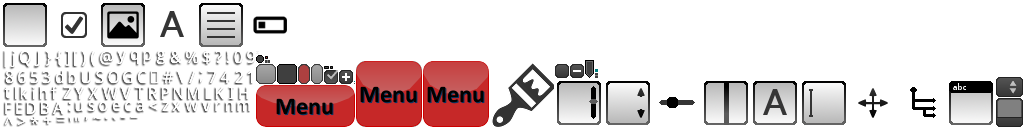
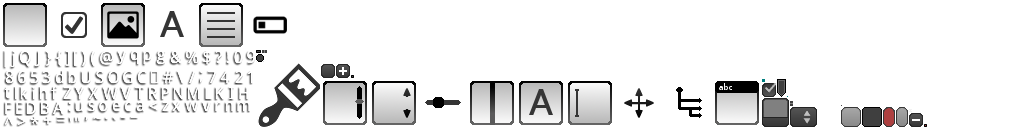
Circle instead of squares.

Changed region(s): [[0.25, 0.375, 1.0, 1.0]]

diff --git a/core/src/com/keeneye/cubetest/Stages/GridStage.java b/core/src/com/keeneye/cubetest/Stages/GridStage.java
@@ -40,6 +40,8 @@ public class GridStage extends Stage {
 
     private Preferences preferences;
 
+    private boolean newScreen;
+
 
     public GridStage(int width,int height,CubeTest game)
     {
@@ -70,11 +72,14 @@ public class GridStage extends Stage {
         second_tracker=0;
         game_time=60;
 
+        newScreen =false;
+
         batch = getBatch();
         batch.setProjectionMatrix(getCamera().combined);
 
         score=0;
-        scoreFont=new BitmapFont(Gdx.files.internal("default.fnt"));
+        scoreFont=new BitmapFont(Gdx.files.internal("skin/default.fnt"));
+        scoreFont.setColor(0,0,0,1);
 
         Color color = randomUtils.getRandomColor();
         for(int i=0;i<2;i++)
@@ -118,68 +123,66 @@ public class GridStage extends Stage {
         spawn_time+=delta;
         background_change_time+=delta;
         second_tracker+=delta;
-        Gdx.app.log("GridStage","Act");
-        if(game_time<=0)
-        {
+        //Gdx.app.log("GridStage","Act");
+        if(!newScreen) {
+            if (game_time <= 0) {
 
-            int highscore = preferences.getInteger("highscore");
+                int highscore = preferences.getInteger("highscore");
 
-            if(score>highscore)
-            {
-                preferences.putInteger("highscore",score);
-                preferences.flush();
-            }
-            game.setScreen(new OverScreen(game,this,score));
+                if (score > highscore) {
+                    preferences.putInteger("highscore", score);
+                    preferences.flush();
+                }
+                //this.dispose();
+                newScreen = true;
+                game.setScreen(new OverScreen(game, this, score));
 
-
-        }
-
-        if(second_tracker>=1) {
-            game_time--;
-
-            second_tracker = 0;
-        }
-
-
-        if(spawn_time>0.5) {
-            spawn_time=0;
-            int x = randomUtils.getRandomInt(4);
-            int y = randomUtils.getRandomInt(4);
-            if (!grids[x][y].isDraw()) {
-                grids[x][y].setColor(randomUtils.getRandomColor());
-                grids[x][y].setDraw(true);
-
-                if(randomUtils.getRandomBoolean(4))
-                    grids[x][y].setDraw_clock(true);
 
             }
         }
 
-        if(background_change_time>10)
-        {
-            background_change_time=0;
-            int x = randomUtils.getRandomInt(2);
-            int y= randomUtils.getRandomInt(2);
-            Color color = randomUtils.getRandomColor();
-            back_grids[x][y].setColor(color);
-            helperUtils.set_grid_back_color(grids,x,y,color);
 
-            int rnd= randomUtils.getRandomInt(2);
+            if (second_tracker >= 1) {
+                game_time--;
 
-            if(rnd==0)
-            {
-                back_grids[(x+1)%2][y].setColor(color);
-                helperUtils.set_grid_back_color(grids,(x+1)%2,y,color);
-            }
-            else
-            {
-                back_grids[x][(y+1)%2].setColor(color);
-                helperUtils.set_grid_back_color(grids,x,(x+1)%2,color);
+                second_tracker = 0;
             }
 
 
+            if (spawn_time > 0.4) {
+                spawn_time = 0;
+                int x = randomUtils.getRandomInt(4);
+                int y = randomUtils.getRandomInt(4);
+                if (!grids[x][y].isDraw()) {
+                    grids[x][y].setColor(randomUtils.getRandomColor());
+                    grids[x][y].setDraw(true);
 
-        }
+                    if (randomUtils.getRandomBoolean(4))
+                        grids[x][y].setDraw_clock(true);
+
+                }
+            }
+
+            if (background_change_time > 10) {
+                background_change_time = 0;
+                int x = randomUtils.getRandomInt(2);
+                int y = randomUtils.getRandomInt(2);
+                Color color = randomUtils.getRandomColor();
+                back_grids[x][y].setColor(color);
+                helperUtils.set_grid_back_color(grids, x, y, color);
+
+                int rnd = randomUtils.getRandomInt(2);
+
+                if (rnd == 0) {
+                    back_grids[(x + 1) % 2][y].setColor(color);
+                    helperUtils.set_grid_back_color(grids, (x + 1) % 2, y, color);
+                } else {
+                    back_grids[x][(y + 1) % 2].setColor(color);
+                    helperUtils.set_grid_back_color(grids, x, (x + 1) % 2, color);
+                }
+
+
+            }
 
 
     }
@@ -222,4 +225,11 @@ public class GridStage extends Stage {
         return game_time;
     }
 
+    @Override
+    public void dispose() {
+        super.dispose();
+        renderer.dispose();
+        scoreFont.dispose();
+        batch.dispose();
+    }
 }

diff --git a/core/src/com/keeneye/cubetest/Actors/Grid.java b/core/src/com/keeneye/cubetest/Actors/Grid.java
@@ -20,6 +20,7 @@ public class Grid extends GameActor {
     protected Color back_color;
     protected Rectangle bound;
     protected Circle clock;
+    protected Circle circle;
     protected boolean draw_clock;
     private GridStage gridStage;
 
@@ -31,6 +32,7 @@ public class Grid extends GameActor {
         this.back_color=null;
         bound=new Rectangle(x,y,width,height);
         clock=new Circle(x+(width/2),y+(height/2),10);
+        circle = new Circle(x+(width/2),y+(height/2),20);
         this.setBounds(x,y,width,height);
         this.gridStage=gridStage;
 
@@ -50,12 +52,12 @@ public class Grid extends GameActor {
         renderer.set(ShapeRenderer.ShapeType.Filled);
         renderer.rect(x, y, width, height);
 
-        renderer.setColor(Color.BLACK);
+        /*renderer.setColor(Color.BLACK);
         renderer.set(ShapeRenderer.ShapeType.Line);
         renderer.rect(x, y, width, height);
+
+        */
         renderer.end();
-
-
 
         if(draw) {
 
@@ -64,12 +66,12 @@ public class Grid extends GameActor {
             renderer.set(ShapeRenderer.ShapeType.Filled);
             renderer.setColor(color);
 
-            renderer.rect(x, y, width, height);
+            renderer.circle(circle.x, circle.y,circle.radius);
 
             if(draw_clock) {
                 renderer.set(ShapeRenderer.ShapeType.Line);
                 renderer.setColor(Color.WHITE);
-                renderer.circle(clock.x, clock.y, clock.radius);
+                renderer.circle(clock.x, clock.y, clock.radius,60);
             }
 
             renderer.end();
@@ -121,7 +123,7 @@ public class Grid extends GameActor {
                         // Gdx.app.log("Grid","Got a Cube");
 
                         if(draw_clock==true)
-                            gridStage.setGame_time(gridStage.getGame_time()+8);
+                            gridStage.setGame_time(gridStage.getGame_time()+4);
 
                         int score=(int)(2-time)*10;
                         draw = false;

diff --git a/core/src/com/keeneye/cubetest/Screens/OverScreen.java b/core/src/com/keeneye/cubetest/Screens/OverScreen.java
@@ -73,28 +73,17 @@ public class OverScreen implements Screen{
         highScore = new Label("High Score: " +Integer.toString(preferences.getInteger("highscore")),_skin );
         highScore.setFontScale(1f);
         resume = new TextButton("RETRY", _skin);
-
-
-        options = new TextButton("OPTIONS", _skin);
-
         back = new TextButton("HOME",_skin);
 
         table.add(title).center().pad(2f);
         table.row().height(75);
         table.add(highScore).center().pad(5f);
         table.row().height(75);
-        table.add(resume).center().width(300).pad(5f);
-        table.row().height(75);
-        table.add(back).center().width(300).pad(5f);
-        table.row().height(75);
-        table.add(options).center().width(300).pad(5f);
-
-
+        table.add(resume).center().width(100).pad(5f);
+        table.row().height(50);
+        table.add(back).center().width(100).pad(5f);
 
         table.setVisible(true);
-
-
-
 
         stage.addActor(table);
         Gdx.input.setInputProcessor(stage);
@@ -125,12 +114,14 @@ public class OverScreen implements Screen{
         stage.act(delta);
         stage.draw();
 
-       /* if(resume.isChecked())
+        if(resume.isChecked())
         {
+            Gdx.app.log("Over","Change of Screen");
             this.dispose();
-            game.setScreen(new GameScreen(game));
+            game.setScreen(new GridScreen(game));
+
         }
-*/
+
 
        /* else if(back.isChecked())
         {

diff --git a/core/src/com/keeneye/cubetest/CubeTest.java b/core/src/com/keeneye/cubetest/CubeTest.java
@@ -1,23 +1,46 @@
 package com.keeneye.cubetest;
 
 import com.badlogic.gdx.Game;
-import com.badlogic.gdx.graphics.Texture;
 import com.badlogic.gdx.graphics.g2d.SpriteBatch;
 import com.keeneye.cubetest.Screens.GridScreen;
+import com.keeneye.cubetest.Screens.OverScreen;
 import com.keeneye.cubetest.Utils.AssetsLoader;
 
 public class CubeTest extends Game {
 	SpriteBatch batch;
-	Texture img;
-	
+
+	private GridScreen gridScreen;
+	private OverScreen overScreen;
+
+	public GridScreen getGridScreen() {
+		return gridScreen;
+	}
+
+	public void setGridScreen(GridScreen gridScreen) {
+		this.gridScreen = gridScreen;
+	}
+
+	public OverScreen getOverScreen() {
+		return overScreen;
+	}
+
+	public void setOverScreen(OverScreen overScreen) {
+		this.overScreen = overScreen;
+	}
+
 	@Override
 	public void create () {
 
-		setScreen(new GridScreen(this));
+		gridScreen=new GridScreen(this);
+		overScreen=new OverScreen(this,gridScreen.getStage(),0);
+
 		AssetsLoader.load();
 		AssetsLoader.background.setLooping(true);
 		AssetsLoader.background.setVolume(0.3f);
 		AssetsLoader.background.play();
+
+
+		setScreen(gridScreen);
 	}
 
 	@Override

diff --git a/core/src/com/keeneye/cubetest/Utils/AssetsLoader.java b/core/src/com/keeneye/cubetest/Utils/AssetsLoader.java
@@ -3,7 +3,6 @@ package com.keeneye.cubetest.Utils;
 import com.badlogic.gdx.Gdx;
 import com.badlogic.gdx.audio.Music;
 import com.badlogic.gdx.audio.Sound;
-import com.badlogic.gdx.graphics.Texture;
 
 /**
  * Created by bazilm on 03-07-2015.
@@ -12,7 +11,7 @@ public class AssetsLoader {
 
     public static Music background;
     public static Sound tap,wrongtap;
-    public static Texture frame;
+
 
 
     public static void load() {
@@ -20,7 +19,7 @@ public class AssetsLoader {
         background = Gdx.audio.newMusic(Gdx.files.internal("background.mp3"));
         tap = Gdx.audio.newSound(Gdx.files.internal("tap.wav"));
         wrongtap = Gdx.audio.newSound(Gdx.files.internal("wrongtap.wav"));
-        frame= new Texture(Gdx.files.internal("frame.png"));
+
     }
 
     public static void dispose()
@@ -29,6 +28,6 @@ public class AssetsLoader {
         background.dispose();
         tap.dispose();
         wrongtap.dispose();
-        frame.dispose();
+
     }
 }

diff --git a/core/src/com/keeneye/cubetest/Enums/Colors.java b/core/src/com/keeneye/cubetest/Enums/Colors.java
@@ -7,7 +7,7 @@ import com.badlogic.gdx.graphics.Color;
  */
 public enum Colors {
 
-    BLUE(new Color(0,0,0.8f,0.7f)),RED(new Color(0.9f,0,0,0.8f)),GREEN(new Color(0,0.9f,0,0.7f)),YELLOW(new Color(1,1,0,0.7f));
+    BLUE(new Color(0,0,0.8f,0.7f)),RED(new Color(0.9f,0,0,0.8f)),GREEN(new Color(0,0.8f,0,0.7f)),YELLOW(new Color(1,1,0,0.7f));
 
     private Color color;
 

diff --git a/core/src/com/keeneye/cubetest/Screens/GridScreen.java b/core/src/com/keeneye/cubetest/Screens/GridScreen.java
@@ -23,6 +23,12 @@ public class GridScreen implements Screen {
 
     public GridScreen(CubeTest game)
     {
+        init(game);
+
+    }
+
+    public void init(CubeTest game)
+    {
         this.game=game;
 
     }
